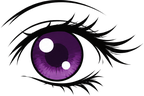
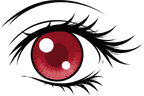
Versión 0.5: ojito rojo pequeño, mismo ojo abierto y cerrado

Changed region(s): [[0.2222, 0.3125, 0.5833, 0.8438]]

diff --git a/index.html b/index.html
@@ -43,9 +43,9 @@
   .chip{display:inline-block;margin-left:6px;padding:2px 8px;border-radius:999px;background:var(--cream);font:700 12px var(--font);text-transform:uppercase;letter-spacing:.04em}
   .ver{margin-top:18px;text-align:center;color:var(--muted);font-size:12px}
   .pw{position:relative}
-  .pw input{padding-right:56px}
-  .eye{position:absolute;right:4px;top:4px;width:50px;height:36px;border:0;background:none;padding:0;cursor:pointer;display:flex;align-items:center;justify-content:center}
-  .eye img{width:42px;height:28px;display:block}
+  .pw input{padding-right:48px}
+  .eye{position:absolute;right:4px;top:4px;width:42px;height:36px;border:0;background:none;padding:0;cursor:pointer;display:flex;align-items:center;justify-content:center}
+  .eye img{width:30px;height:20px;display:block}
   [hidden]{display:none!important}
 </style>
 </head>
@@ -87,7 +87,7 @@
     <div class="row"><button class="btn" type="button" id="logout">Salir</button></div>
   </section>
 
-  <p class="ver">Versión de prueba 0.4 · entrada con correo y contraseña</p>
+  <p class="ver">Versión de prueba 0.5 · entrada con correo y contraseña</p>
 </main>
 <script>
   const SUPABASE_URL = 'https://cawmvpfjaehennkknmoy.supabase.co';

diff --git a/sw.js b/sw.js
@@ -1,5 +1,5 @@
-// Mi Menú · trabajador sin conexión (v0.4 de prueba)
-const VERSION = 'mimenu-v0.4';
+// Mi Menú · trabajador sin conexión (v0.5 de prueba)
+const VERSION = 'mimenu-v0.5';
 const CORE = ['./', './index.html', './manifest.webmanifest', './icon-192.png', './icon-512.png', './apple-touch-icon.png', './ojo-cerrado.png', './ojo-abierto.png'];
 
 self.addEventListener('install', e => {
